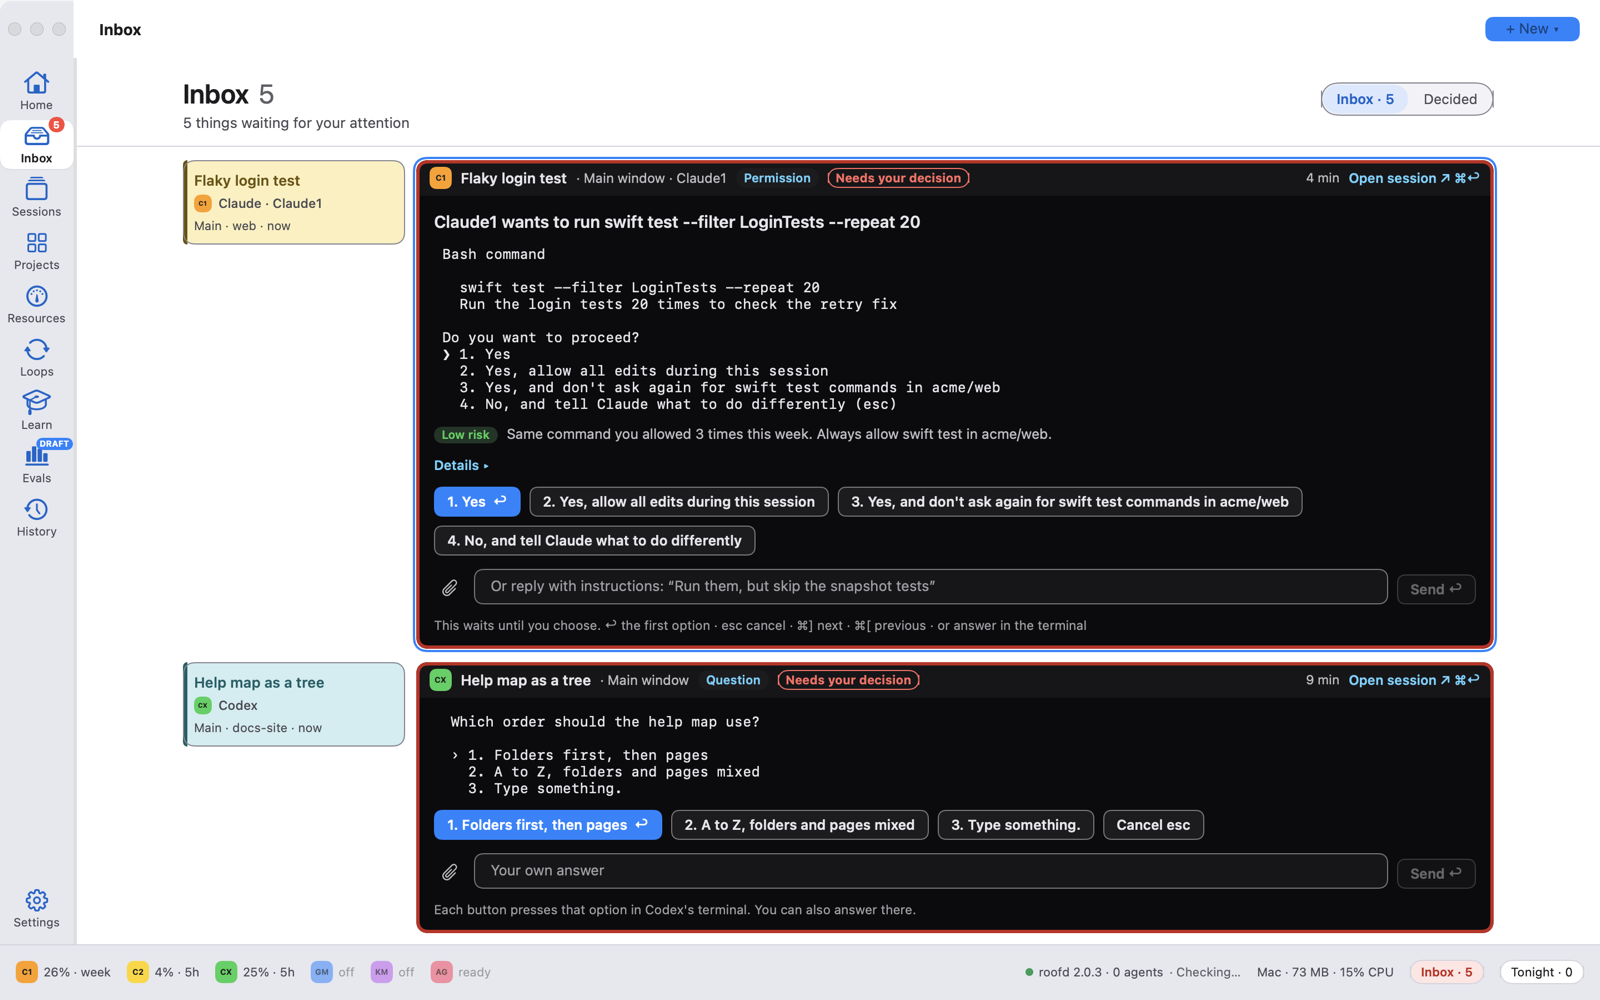
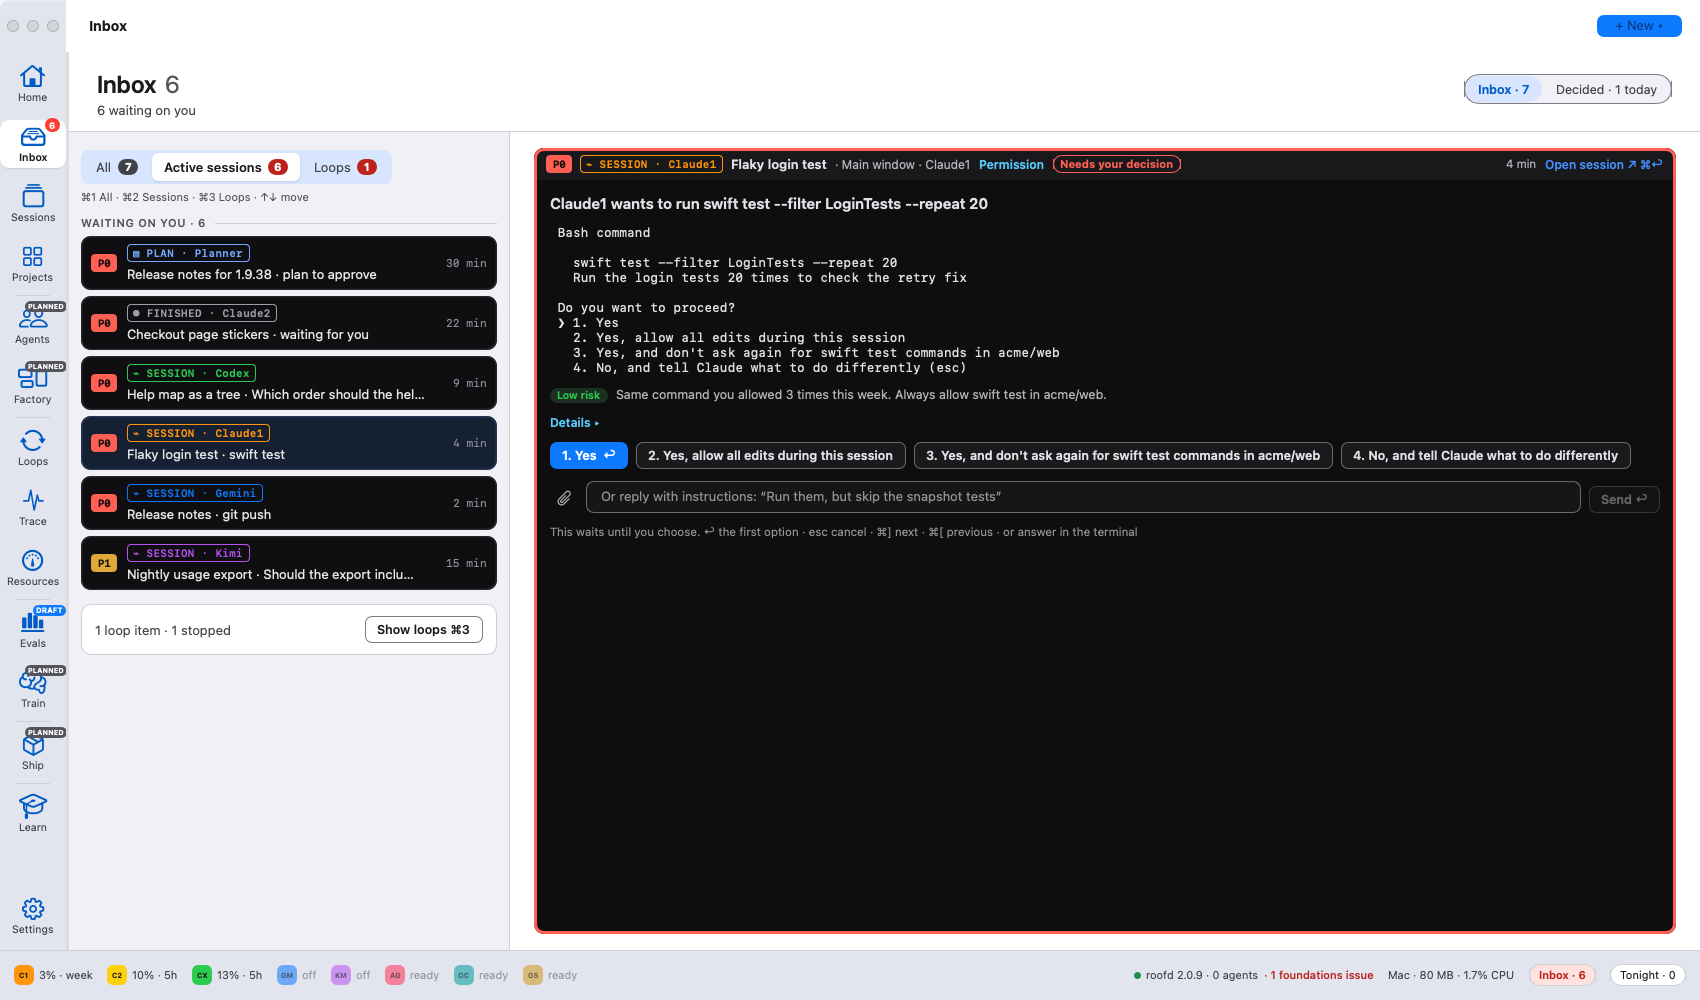
LAB-2343 · [lab-oneroof-v2.0.9] One Roof 2.0.9 version + CHANGELOG + site: the Inbox, redone
2.0.9 (build 86). CHANGELOG section (release notes), README status line, and the site's
Inbox section: new copy and a new screenshot (demo sessions only, Active sessions filter).

Changed region(s): [[0.0, 0.0, 1.0, 0.992], [0.0, 0.899, 0.0312, 0.93]]

diff --git a/site/index.html b/site/index.html
@@ -125,7 +125,7 @@
           <span class="num">01</span>
           <h3>Questions get lost</h3>
           <p>An agent stops to ask something, in a tab you are not watching, and waits for an hour.</p>
-          <span class="answer">→ The Inbox: every ask from every session in one place, the urgent ones first, answered in place.</span>
+          <span class="answer">→ The Inbox: every ask from every session and every loop in one list, red only when something waits on you, answered in place.</span>
         </a>
         <a class="card" href="#home">
           <span class="num">02</span>
@@ -174,10 +174,10 @@
 
     <section id="inbox" class="feature">
       <div class="feature-head">
-        <div class="stack-sm"><span class="tag"><i style="background:var(--c4)"></i>Inbox · ⌘I</span><h3>Everything the agents ask you, in one column.</h3></div>
-        <p>One block per session that needs you, with the prompt's own options as buttons (or press 1–9). When an agent is blocked until you act, its block gets a red border and goes to the top. A finished turn waits here too, with a reply box; paste a screenshot and the agent reads it. Nothing is approved for you, and you can always answer in the terminal instead. Decided keeps what you answered, newest first.</p>
+        <div class="stack-sm"><span class="tag"><i style="background:var(--c4)"></i>Inbox · ⌘I</span><h3>Everything the agents and loops need from you, in one list.</h3></div>
+        <p>One row per thing that needs you, from your sessions and your loops, each marked by how soon (P0 blocked, P1 decide, P2 read) and who sent it; filter to Active sessions or Loops with ⌘2 and ⌘3. The selected row opens beside the list with the prompt's own options as buttons (or press 1–9), a reply box that takes screenshots, and for loop results what approving would run. Only what is blocked on you is red, and a loop that files the same thing every night is one row. Nothing is approved for you, and you can always answer in the terminal instead. Decided keeps every answer, from sessions and loops.</p>
       </div>
-      <div class="shot"><img src="shots/inbox.png" width="1600" height="1000" loading="lazy" alt="The Inbox: Claude asks to run a test command, with its four options as buttons, and Codex asks a question, both marked Needs your decision"></div>
+      <div class="shot"><img src="shots/inbox.png" width="1700" height="1000" loading="lazy" alt="The Inbox: a list of what waits on you, filtered to Active sessions, each row marked P0 or P1 with who sent it; Claude1's request to run a test command is open beside it with its four options as buttons"></div>
     </section>
 
     <section id="sessions" class="feature">

diff --git a/CHANGELOG.md b/CHANGELOG.md
@@ -1,5 +1,30 @@
 # Changelog
 
+## 2.0.9 — The Inbox, redone: one list for sessions and loops, red only when something waits on you (21 Nov 2026)
+
+The Inbox used to show every loop result as a red block of its own; on a real Mac that was 78 identical alarms for
+about 15 decisions. It is now a list with the selected item in full beside it, and only what is blocked on you is red.
+
+- **A list and a panel.** On the left, every item as one row: how soon it needs you (P0 blocked, P1 decide, P2 read),
+  who sent it (a session, a plan, a loop) and a short title. On the right, the selected item in the dark console, answered
+  in place as before: the agent's own options, the reply box, ↩, esc, 1–9. (LAB-2339, LAB-2340)
+- **All · Active sessions · Loops.** A filter on top of the list (⌘1 · ⌘2 · ⌘3) with counts. The Inbox opens on Active
+  sessions when a session is blocked on you. Sessions split into Waiting on you and Not waiting on you; loops are grouped
+  by loop. (LAB-2339)
+- **Red only when something is stopped.** A permission, a question menu, a plan, a loop round that asks and a loop that
+  stopped are red. Proposals, reports, commits and file updates never are, however old. (LAB-2338)
+- **Loop results in their own words.** A proposal shows its real title, its evidence, what approving changes and the
+  rule behind it; a report shows its finding; commits show the gate, the push and the PR command Approve runs, the commits
+  and the diff. (LAB-2341)
+- **Repeats folded.** A loop that files the same thing every night is one row, "filed ×17"; one decision closes every
+  copy. "Dismiss and stop re-filing" keeps later copies out of the Inbox. A report links to the proposal it is about.
+  Reports and notes expire after 7 days. (LAB-2341)
+- **Decide many at once.** Space, ⇧↑ ⇧↓ or Select all, then Approve N or Dismiss N. (LAB-2342)
+- **Decided, for sessions and loops.** The same list and panel, with the same filter; loop decisions you made are in it
+  too, and "Decided · N today" counts both. (LAB-2342)
+- **One count.** The Inbox badge on the rail, the menu bar, the Dock and the status bar counts only what is blocked on
+  you. The Loops badge no longer repeats the same items. A banner says when roofd is not running. (LAB-2343)
+
 ## 2.0.8 — Thirteen places on the rail, and the first Agent factory recipes (19 Nov 2026)
 
 One Roof grows beyond a coding tool. The rail now holds every place it will have, in six groups, and the places that

diff --git a/README.md b/README.md
@@ -27,7 +27,7 @@
 
 <p align="center"><sub>Free · open source · MIT · signed and notarized · needs macOS 14 or later on Apple silicon</sub></p>
 
-> **Status: version 2.0.8.** Free and open source under the MIT licence. Tested on Apple-silicon Macs only.
+> **Status: version 2.0.9.** Free and open source under the MIT licence. Tested on Apple-silicon Macs only.
 > Evals is still a draft, and is marked as one in the app. Please
 > [open an issue](https://github.com/gaurav8936/oneroof/issues) with anything that breaks or reads badly; see
 > [CONTRIBUTING.md](CONTRIBUTING.md).
